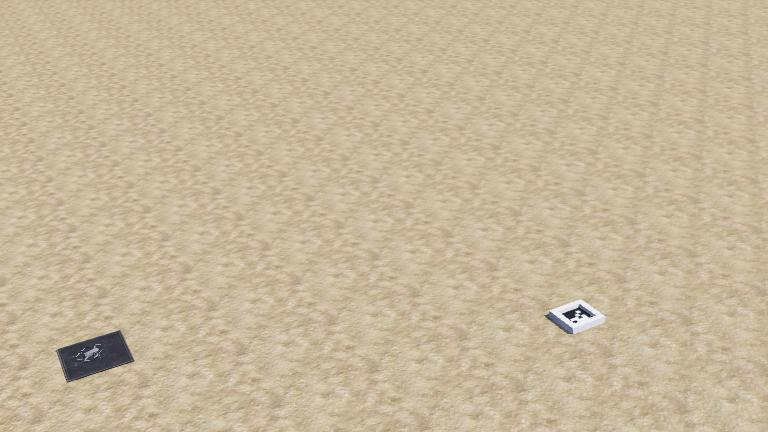
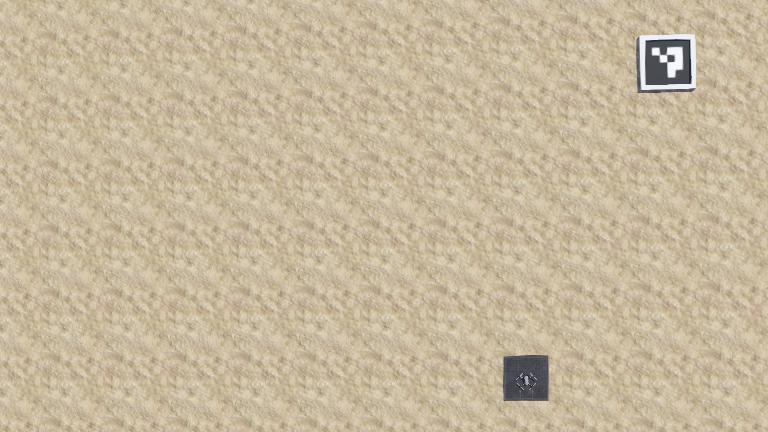
pushing last from desktop before christmas

diff --git a/controllers/mavic2pro/mavic2pro.py b/controllers/mavic2pro/mavic2pro.py
@@ -109,11 +109,10 @@ class Mavic(Robot):
         return False
 
     def pixel_to_world(self, x_pixel, y_pixel):
-        # Assuming camera is pointing downwards and altitude is a good approximation of distance to ground
         altitude = self.gps.getValues()[2]
         image_width, image_height = self.camera.getWidth(), self.camera.getHeight()
 
-        # Approximate field of view of the camera
+        # Base field of view of the camera
         camera_fov_horizontal = 1.5708  # 90 degrees in radians
         camera_fov_vertical = 1.5708  # 90 degrees in radians
 
@@ -121,9 +120,9 @@ class Mavic(Robot):
         real_world_per_pixel_x = 2 * altitude * np.tan(camera_fov_horizontal / 2) / image_width
         real_world_per_pixel_y = 2 * altitude * np.tan(camera_fov_vertical / 2) / image_height
 
-        # Adjust based on trial and error calibration
-        calibration_factor_x = -1.2985  # Adjust based on your trials
-        calibration_factor_y = -0.185  # Adjust based on your trials
+        # Dynamic calibration based on altitude
+        calibration_factor_x = self.dynamic_calibration_factor_x(altitude)
+        calibration_factor_y = self.dynamic_calibration_factor_y(altitude)
         real_world_per_pixel_x *= calibration_factor_x
         real_world_per_pixel_y *= calibration_factor_y
 
@@ -131,12 +130,22 @@ class Mavic(Robot):
         x_world_relative = (x_pixel - image_width / 2) * real_world_per_pixel_x
         y_world_relative = (y_pixel - image_height / 2) * real_world_per_pixel_y
 
-        # Convert to absolute world coordinates
         drone_x, drone_y, _ = self.gps.getValues()
         x_world = drone_x + x_world_relative
         y_world = drone_y + y_world_relative
 
         return x_world, y_world
+
+    def dynamic_calibration_factor_x(self, altitude):
+        # Define a function that returns a calibration factor based on altitude
+        # This function should be determined through experimentation
+        return -1.2985  # Placeholder, adjust based on experimentation
+
+    def dynamic_calibration_factor_y(self, altitude):
+        # Define a function that returns a calibration factor based on altitude
+        # This function should be determined through experimentation
+        return -0.185  # Placeholder, adjust based on experimentation
+
 
     
     def land(self):

diff --git a/controllers/mavic2pro_patrol/mavic2pro_patrol.py b/controllers/mavic2pro_patrol/mavic2pro_patrol.py
@@ -26,11 +26,14 @@ class Mavic(Robot):
         self.current_pose = [0, 0, 0, 0, 0, 0]  # X, Y, Z, yaw, pitch, roll
         self.target_position = [0, 0, 0]
         self.target_altitude = 5
-        self.sinusoidal_path_amplitude = 20  # Increased amplitude
-        self.sinusoidal_path_frequency = 0.5
+        self.sinusoidal_path_amplitude = 200  # Increased amplitude
+        self.sinusoidal_path_frequency = 500  # Increased frequency
         self.marker_detected = False
         self.marker_position = [0, 0]
         self.target_index = 0
+        self.spiral_angle = 0  # Initial angle of the spiral
+        self.current_spiral_radius = 1  # Initial radius of the spiral
+        self.spiral_radius_increment = 5  # How much the radius increases each step
         self.circle_angle = 0
         self.circle_radius = 5  # Initial radius of the circle
         self.circle_radius_increment = 5  # How much the radius increases each step
@@ -105,7 +108,7 @@ class Mavic(Robot):
         
     def update_spiral_waypoints(self):
         # Update the spiral angle and radius
-        self.spiral_angle += np.radians(30)  # Faster angle increment for quicker turns
+        self.spiral_angle += np.radians(-30)  # Faster angle increment for quicker turns
         self.current_spiral_radius += self.spiral_radius_increment  # Increment the radius
 
         # Convert polar coordinates to Cartesian coordinates
@@ -277,7 +280,7 @@ class Mavic(Robot):
         waypoints = [[-30, 20], [-60, 20], [-60, 10], [-30, 5]]
         #waypoints = [[-6.36,3.2]]
         # target altitude of the robot in meters
-        self.target_altitude = 8
+        self.target_altitude = 9
 
         detected_marker = False
         while self.step(self.time_step) != -1:
@@ -289,6 +292,8 @@ class Mavic(Robot):
 
             if not self.marker_detected:
                 if altitude > self.target_altitude - 1:
+                    x_step=x_pos+5
+                    yaw_disturbance, pitch_disturbance = self.move_to_target([[x_step, y_pos]])
                     self.update_circular_waypoints()  # Update waypoints to follow a circular path
                     yaw_disturbance, pitch_disturbance = self.compute_movement()
                 else:
